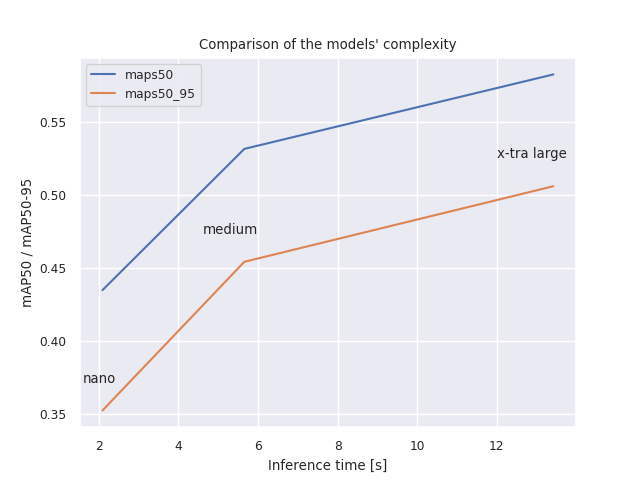
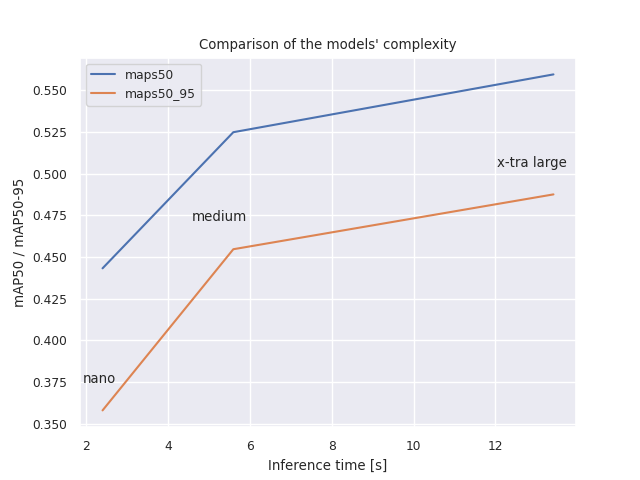
metrics and inference done

diff --git a/our_metrics_test.py b/our_metrics_test.py
@@ -5,10 +5,11 @@ from test_yolo_data_cluster import YOLOCustom
 
 if __name__ == "__main__":
 
+    print("evaluating metrics")
+
     all_test_set = True
     if all_test_set:
-        # CHANGE val:val.txt to test.txt in the yalm file !!!!!
-        test_data_file = "tsr_dataset.yaml"  #rest of the path is hardcoded in stream_loader.py
+        test_data_file = "tsr_dataset_test.yaml"  #rest of the path is hardcoded in stream_loader.py
 
 
         maps50 = []
@@ -16,7 +17,7 @@ if __name__ == "__main__":
         time = []
 
         #NANO
-        model_path = "our_retrained_models/yolov8n_tsd_30epochs.pt"
+        model_path = "our_retrained_models/yolov8n_tsd.pt"
         model = YOLOCustom(model = model_path)
         metrics = model.val(data = test_data_file)
         print(f"Final results for yolov8 nano: mAP50 {metrics.results_dict['metrics/mAP50(B)']}, "+
@@ -24,10 +25,10 @@ if __name__ == "__main__":
         maps50.append(metrics.results_dict['metrics/mAP50(B)'])
         maps50_95.append(metrics.results_dict['metrics/mAP50-95(B)'])
         time.append(metrics.speed['inference'])
-        # Final results for yolov8 nano: mAP50 0.8417955264534036, mAP50 0.7083651463474747 and inference time 2.656630054692028
+        # Final results for yolov8 nano: mAP50 0.4432601368850605, mAP50 0.35808306560387837 and inference time 2.4061742004992466
 
         #MEDIUM
-        model_path = "our_retrained_models/yolov8m_tsd_30epochs.pt"
+        model_path = "our_retrained_models/yolov8m_tsd.pt"
         model = YOLOCustom(model = model_path)
         metrics = model.val(data = test_data_file)
         print(f"Final results for yolov8 medium: mAP50 {metrics.results_dict['metrics/mAP50(B)']}, "+
@@ -35,10 +36,10 @@ if __name__ == "__main__":
         maps50.append(metrics.results_dict['metrics/mAP50(B)'])
         maps50_95.append(metrics.results_dict['metrics/mAP50-95(B)'])
         time.append(metrics.speed['inference'])
-        # Final results for yolov8 medium: mAP50 0.8988986169684553, mAP50 0.8020364596757812 and inference time 5.640034697708059
+        # Final results for yolov8 medium: mAP50 0.524872974614051, mAP50 0.4547125627884293 and inference time 5.599455987948984
         
         #LARGE
-        model_path = "our_retrained_models/yolov8x_tsd_30epochs.pt"
+        model_path = "our_retrained_models/yolov8x_tsd.pt"
         model = YOLOCustom(model = model_path)
         metrics = model.val(data = test_data_file)
         print(f"Final results for yolov8 x-tra large: mAP50 {metrics.results_dict['metrics/mAP50(B)']}, "+
@@ -46,7 +47,7 @@ if __name__ == "__main__":
         maps50.append(metrics.results_dict['metrics/mAP50(B)'])
         maps50_95.append(metrics.results_dict['metrics/mAP50-95(B)'])
         time.append(metrics.speed['inference'])
-        # Final results for yolov8 x-tra large: mAP50 0.9343034899392261, mAP50 0.8510913090950882 and inference time 13.632428332863856
+        # Final results for yolov8 x-tra large: mAP50 0.5595280276367262, mAP50 0.48758862706402817 and inference time 13.416062195496893
 
         plt.plot(time, maps50, label = "maps50")
         plt.plot(time, maps50_95, label = "maps50_95")
@@ -69,27 +70,27 @@ if __name__ == "__main__":
         plt.savefig("our_predictions/random.png")
     
     else:
-        test_image = "fafaa.txt"  #rest of the path is hardcoded in stream_loader.py
+        test_image = "tsr_dataset_one_image.yaml"  #rest of the path is hardcoded in stream_loader.py
 
         print("here")
         time = []
 
         #NANO
-        model_path = "our_retrained_models/yolov8n_tsd_30epochs.pt"
+        model_path = "our_retrained_models/yolov8n_tsd.pt"
         model = YOLOCustom(model = model_path)
         metrics = model.val(data = test_image)
         print(f"Final inference time for yolov8 nano {metrics.speed['inference']}")
         time.append(metrics.speed['inference'])
 
         #NANO
-        model_path = "our_retrained_models/yolov8m_tsd_30epochs.pt"
+        model_path = "our_retrained_models/yolov8m_tsd.pt"
         model = YOLOCustom(model = model_path)
         metrics = model.val(data = test_image)
         print(f"Final inference time for yolov8 medium {metrics.speed['inference']}")
         time.append(metrics.speed['inference'])
 
         #NANO
-        model_path = "our_retrained_models/yolov8x_tsd_30epochs.pt"
+        model_path = "our_retrained_models/yolov8x_tsd.pt"
         model = YOLOCustom(model = model_path)
         metrics = model.val(data = test_image)
         print(f"Final inference time for yolov8 x-tra large {metrics.speed['inference']}")

diff --git a/our_inference.py b/our_inference.py
@@ -4,9 +4,9 @@ from test_yolo_data_cluster import YOLOCustom
 
 def write(preds, output_file):
     with open(output_file, "w+") as f:
-        f.write("img_path,speed,class_id,class_name,x_box,y_box,w_box,h_box\n")
+        f.write("img_path,inference_time,class_id,class_name,x_box,y_box,w_box,h_box\n")
         for pred in preds:
-            speed = pred.speed["preprocess"] + pred.speed["inference"] + pred.speed["postprocess"]
+            speed = pred.speed["inference"]
             for box in pred.boxes:
                 f.write(str(pred.path)+","+str(speed)+","+str(box.cls.item())+","+str(pred.names[box.cls.item()])+","+
                         str(box.xywh[0][0].item())+","+str(box.xywh[0][1].item())+","+
@@ -16,11 +16,11 @@ if __name__ == "__main__":
 
     #parse args
     parser = argparse.ArgumentParser()
-    parser.add_argument('--model_path', default='yolov8m_tsd_30epochs.pt',
+    parser.add_argument('--model_path', default='yolov8n_tsd.pt',
                             help='path of the model')
-    parser.add_argument('--data_path', default="images/01/image.006950.jp2",
+    parser.add_argument('--data_path', default="images/01/image.006950.jp2", #rest of path hardcoded in streamloader.py
                             help='path of the data')
-    parser.add_argument('--output_file', default="our_predictions/prediction_006950_m.txt",
+    parser.add_argument('--output_file', default="our_predictions/prediction_006950_n.txt",
                         help='path to store the output predictions')
     args = parser.parse_args()
 

diff --git a/OUR_README.md b/OUR_README.md
@@ -1,0 +1,71 @@
+add all raw models are in the trained_models folder
+download from https://github.com/ultralytics/assets/releases : take n,m,x
+
+all trained model on drive : put in our_retrained_models
+
+our retrained models on the BTSD dataset are in the folder our_retrained_models
+
+test that everything works on a new environment (load the right files, and not the ultralytics librairy)
+
+data in /work/vita/...
+
+use val function of yolo for evaluate performanace of models 
+
+if other data loc, change path in streamloader.py : data_dir = "/work/vita/nmuenger_trinca/annotations/"
+
+
+# YODSO : YOU ONLY DETECT SIGN ONCE
+
+### instalation:
+
+```
+pip instal ...
+ultralytics
+```
+
+
+### data:
+
+path in .yalm + hardcoded in stream_loader
+
+data are in scitas
+
+say wich sign corespond to which class name
+
+### models:
+
+Before everything, one must first download the models from google drive and put them in the correct files.  
+There are two kinds of models. The models pretrained by the ultralytics team on the coco dataset and our models which we finetuned on the BelgiumTS dataset. Both kinds comes with 3 different size : nano, medium and x-tra large. 
+
+The pretrained models must first be trained with our training script. Our finetuned models can directly be used for inference. 
+
+The pretrained models form ultralytics must be placed in the *trained_models* folder and our finetuned models in the *our_retrained_models* folder.
+
+
+
+### training:
+
+The script to train the network is called our_train.py. One can run it with this command, specifying the model to use and the number of epochs.
+```
+python our_train.py --model yolov8m.pt --epochs 3
+```
+The model trained and some training metrics are then stored in the *run/detect* folder.
+
+### inference:
+
+To infer the bounding boxes and classes of an image, we use the *our_inference.py* script. One can specify the model to use, the path to the image (wich must be in the same folder as the path specified in the .yaml file) and the file to outpur the predictions. An example command is provided below.
+
+```
+python our_inference.py --model_path yolov8m_tsd_30epochs.pt --data_path images/01/image.006950.jp2 --output_file our_predictions/prediction.txt
+```
+
+### testing:
+
+change in the yaml file
+
+
+
+
+
+
+
